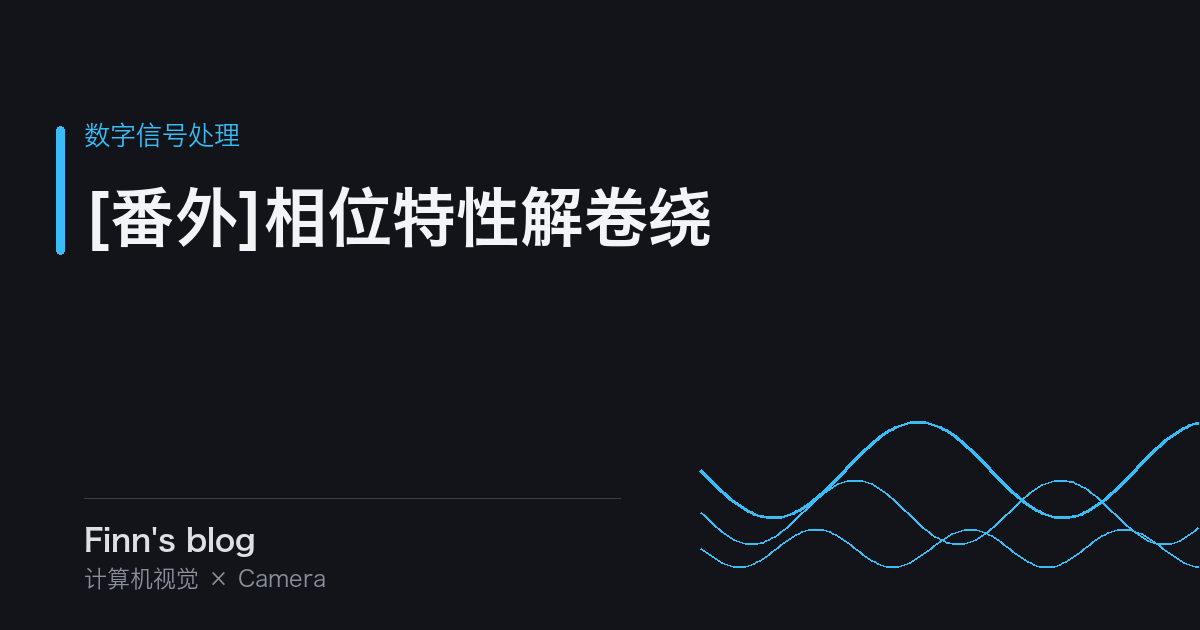
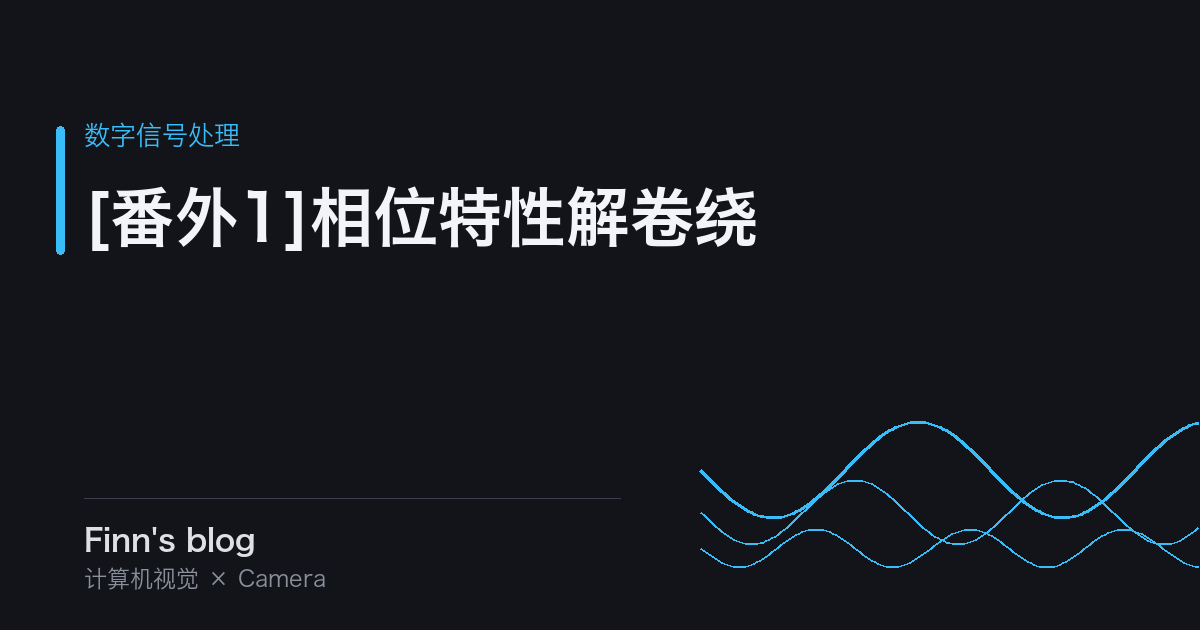
[fix] 番外系列补上编号，第一篇改为「[番外1]」
数字信号处理下现有两篇番外，此前第一篇只写作「[番外]」，
新增定点计算一篇后无从区分先后，故统一加上序号。

只改 title 与 og 的 alt 文字，文件名不动，permalink 取自文件名，
线上 URL 不受影响。同步更新 FIR 滤波器设计（二）末尾的引用文字，
并按新标题重新生成该篇的 og 图。

Changed region(s): [[0.185, 0.3016, 0.6475, 0.3921]]

diff --git a/_posts/2013-05-29-FIR-Filter-Design-2.md b/_posts/2013-05-29-FIR-Filter-Design-2.md
@@ -225,7 +225,7 @@ int main(void)
 
 从频率响应分析结果来看，该滤波器的幅频特性确实体现了低通滤波器的基本特征。然而，在相位特性方面存在一些值得关注的问题。为了对相位特性进行准确分析，需要采用相位解卷绕技术进行处理。
 
-相位解卷绕的相关讨论，请参考 📎 <a href="{{ site.baseurl }}/posts/FIR-Filter-Phase-Unwrapping/"> >>[番外]相位特性解卷绕 << </a> 。
+相位解卷绕的相关讨论，请参考 📎 <a href="{{ site.baseurl }}/posts/FIR-Filter-Phase-Unwrapping/"> >>[番外1]相位特性解卷绕 << </a> 。
 
 通过对相位特性的深入分析发现，该FIR滤波器的相位响应与理论预期的线性特性存在偏差。特别是在接近阻带起始频率$\omega_s$的区域，相位响应出现了明显的波动。这种非理想特性的成因及其对系统性能的影响将在后文中进行系统性分析。
 

diff --git a/_posts/2013-06-02-FIR-Filter-Phase-Unwrapping.md b/_posts/2013-06-02-FIR-Filter-Phase-Unwrapping.md
@@ -1,6 +1,6 @@
 ---
 layout: post
-title: "[番外]相位特性解卷绕"
+title: "[番外1]相位特性解卷绕"
 date: 2013-06-02 18:19:42  +0800
 categories: 数字信号处理
 tags: [FIR滤波器, 相位解卷绕]
@@ -8,7 +8,7 @@ math: true
 # categories: jekyll update
 image:
   path: /assets/resource/og/FIR-Filter-Phase-Unwrapping.png
-  alt: "[番外]相位特性解卷绕"
+  alt: "[番外1]相位特性解卷绕"
 ---
 
 在分析FIR滤波器特性时,我们需要对其系数(单位冲击响应)进行离散时间傅里叶变换,表达式如下:
